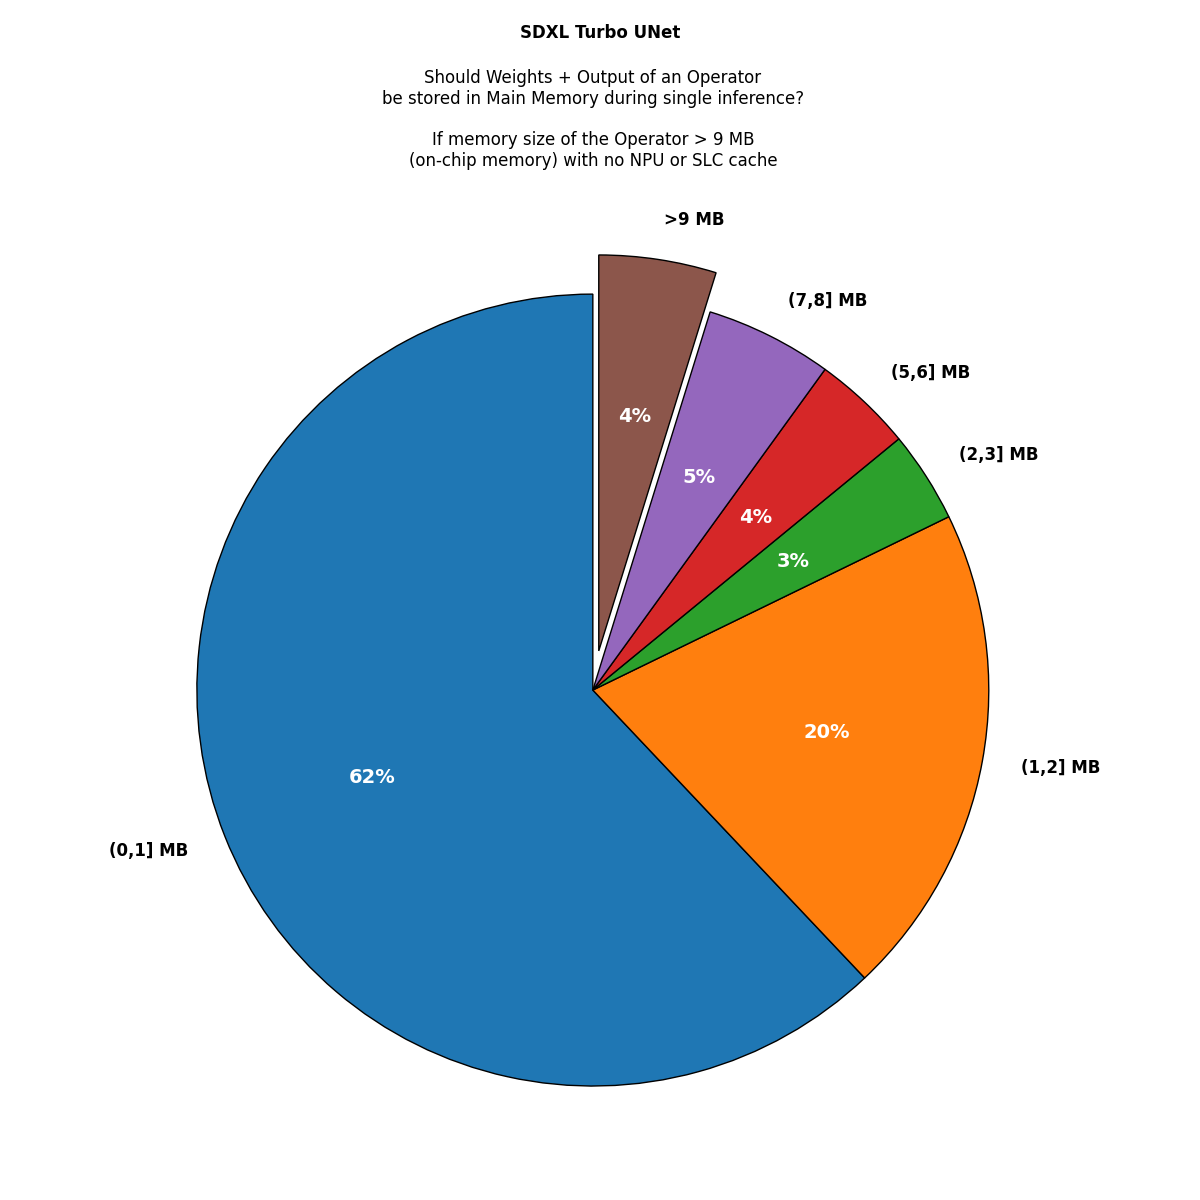
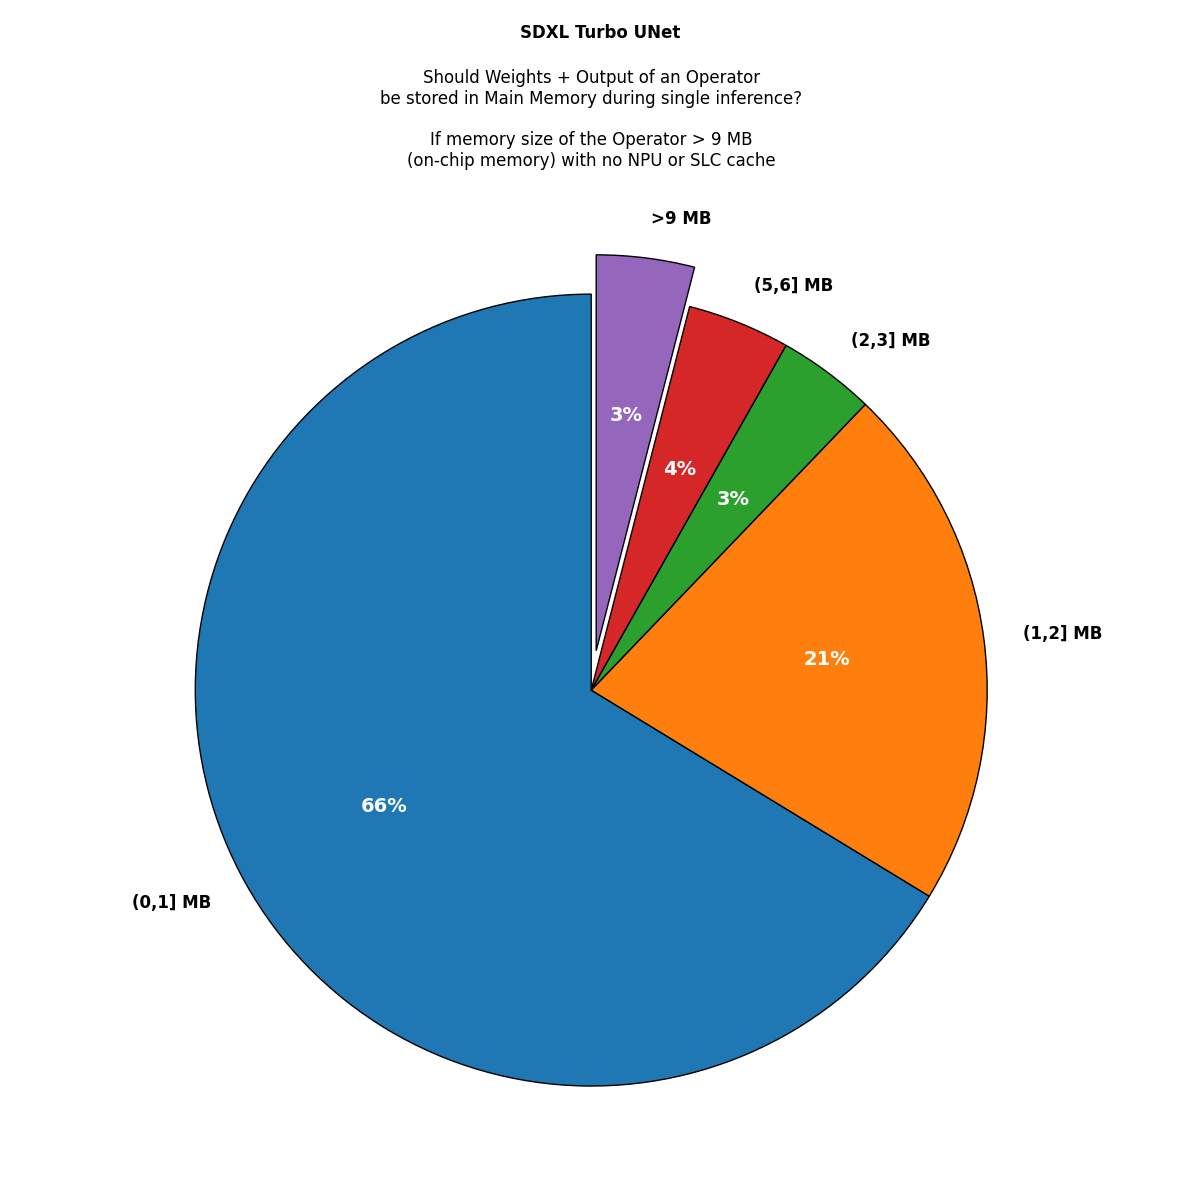
minor changes

diff --git a/scripts/onnxProfile/onnx_profiling_analysis.py b/scripts/onnxProfile/onnx_profiling_analysis.py
@@ -22,7 +22,7 @@ if not os.path.exists(save_directory):
 
 table = pandas.read_csv(filepath)
 
-output_memory = table['Output Memory (in MB)'][:-1].to_numpy(dtype=numpy.float64)
+output_memory = table['Output Memory (in Bytes)'][:-1].to_numpy(dtype=numpy.int64)
 total_memory = table['Memory (in MB)'][:-1].to_numpy(dtype=numpy.float64)
 
 main_memory_total_memory_accesses = 0
@@ -67,14 +67,13 @@ for i, element in enumerate(total_memory):
     else:
         memory_usage[key] += 1
 
-        if math.isclose(output_memory[i-1], element, rel_tol=1e-1):
+        if output_memory[i-1] == output_memory[i]:
             consecutive_output_memory_usage[key] += 1
 
 
 # sort output_memory_usage by keys
 def sortDict(dictionary):
     elements = list(dictionary.keys())
-
     elements.sort(key=lambda x: int(x[0]))
     
     sorted_dictionary = {element: int(dictionary[element]) for element in elements}
